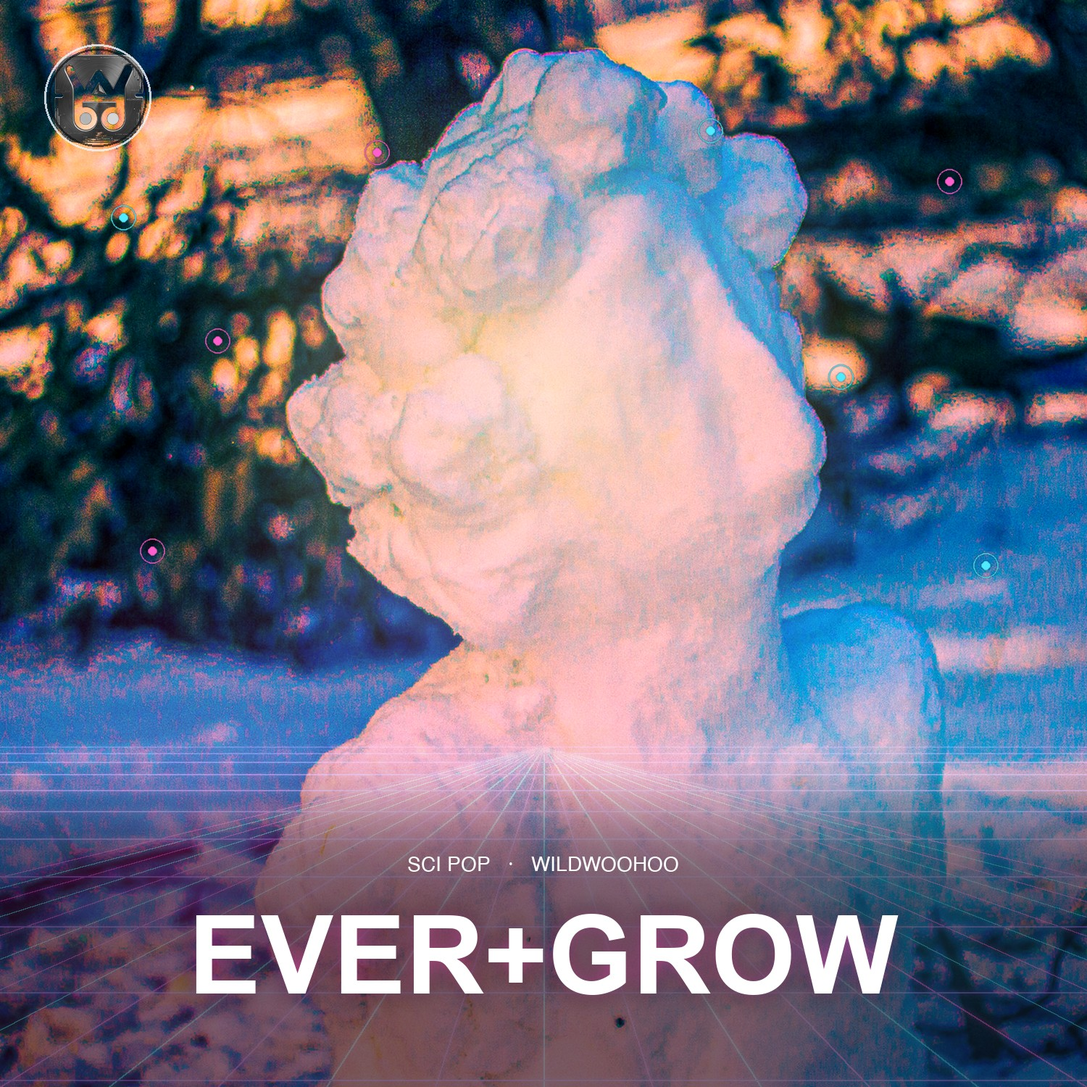
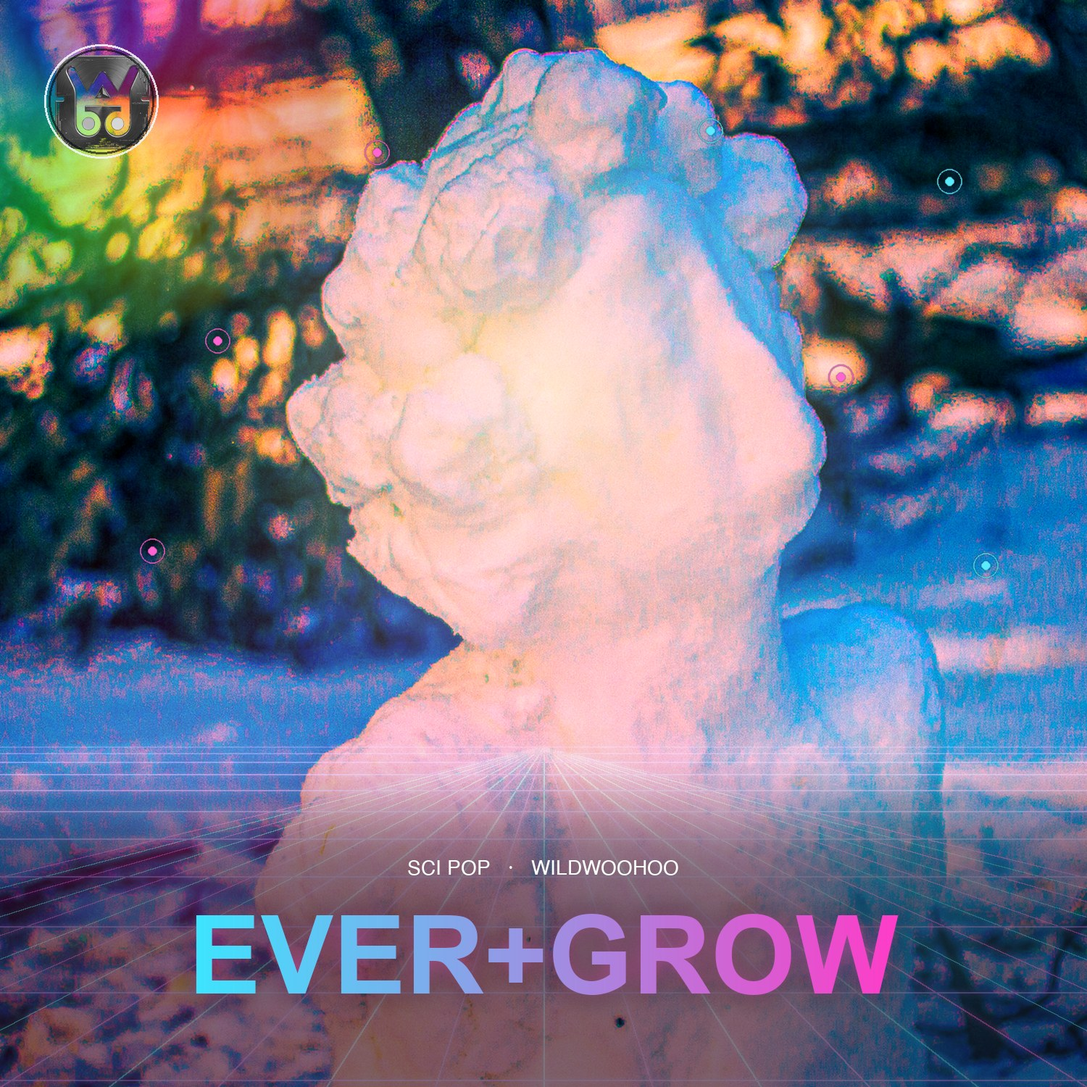
EVER+GROW cover v2: gradient title, happier grade, rainbow-from-seal
- Title EVER+GROW now a cyan->magenta synthwave gradient (was white)
- Grade a touch happier/brighter (more saturation + light)
- Added a rainbow burst radiating from the metallic seal so it pops against the busy background (also the WildWooHoo rainbow motif)

diff --git a/work/index.html b/work/index.html
@@ -555,7 +555,7 @@ body[data-wwh-galaxy="on"] .wwh-stats { background:transparent !important; }
         <p id="ever-grow">EVER+GROW is the album that sets the sci pop sound. It is built whole from science, technology and nature, with the concept, lyrics and composition all grown from the same source. Its format borrows indeterminate growth, the way some animals keep growing through life, read at once as a fact of the natural world and as a figure for a human life that never stops becoming: three songs arrive in each of the first three years, and at least one every year after, so the album keeps growing.</p>
         <div class="wwh-doc-media wwh-doc-media--vinyl">
           <div class="wwh-cover">
-            <img src="../assets/img/evergrow-cover.jpg?v=20260712d" alt="EVER+GROW, the WildWooHoo sci pop album, WELI's snow-figure photo in a synthwave treatment with the metallic WildWooHoo seal" loading="lazy" decoding="async" width="1200" height="1200" />
+            <img src="../assets/img/evergrow-cover.jpg?v=20260712e" alt="EVER+GROW, the WildWooHoo sci pop album, WELI's snow-figure photo in a synthwave treatment with the metallic WildWooHoo seal" loading="lazy" decoding="async" width="1200" height="1200" />
           </div>
         </div>
         <p>Each song puts science at its core and creative freedom around it, moving between researched findings and imagined worlds with a clear concept, a cause and an audience in mind. The album is open to scientists and science-enthusiast artists who want to take part in popular music, shaping songs that range across the sciences, the natural world and the technologies we build, voiced by everything from animal narrators to the machines themselves. Its play between the real and the imagined is in conversation with camp science, the way popular film turns science into spectacle, performance and style. Songwriting is in progress, with Phase 1 recording in December 2026 and the album launching from Q2 2027.</p>
